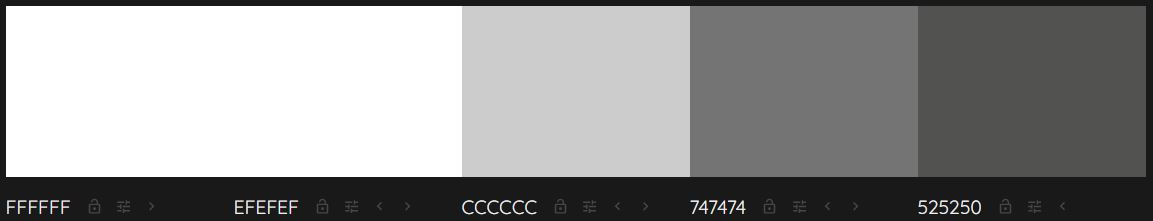
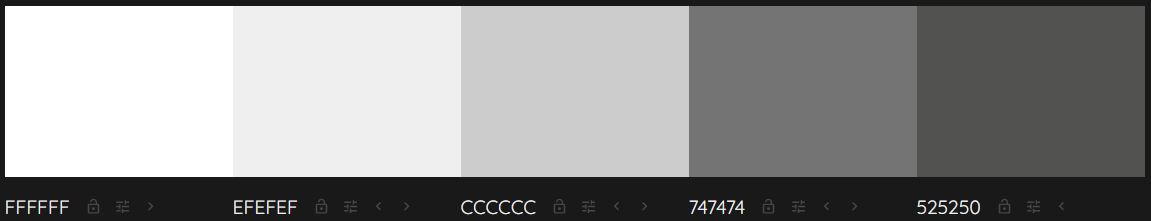
Update colour scheme section of readme file

diff --git a/README.md b/README.md
@@ -77,7 +77,7 @@ Here are links to each of them:
 
 #### Imagery
 
-Images were only used to represent the player's and computer's hands, those being: rock, paper, scissors, lizard or, spock. The chosen images used within the game came from [Tony Florida's](https://tonyflorida.com/rock-paper-scissors-lizard-spock-rules/) website, found with a google search. The images looked different from others I had seen; I liked this so decided to use them. I cropped them all, changed the angles, and made their backgrounds transparent.
+Images were only used to represent the player's and computer's hands, those being: rock, paper, scissors, lizard or spock. The chosen images used within the game came from [Tony Florida's](https://tonyflorida.com/rock-paper-scissors-lizard-spock-rules/) website, found with a google search. The images looked different from others I had seen; I liked this so decided to use them. I cropped them all, changed the angles, and made their backgrounds transparent.
 
 #### Colour Scheme
 
@@ -85,9 +85,9 @@ The colour scheme used was partly influenced by the colour of the [images](#imag
 
 The heading text is coloured with a dark shade of grey (#525250) and has a border that is a slightly ligher shade of grey (#747474). This combo works well as it seems to make the text stand out without being overpowering.
 
-The difficulty toggle background colour is a very light grey (#efefef) with a darker but still light grey border (#ccc). Although light, the grey still stands out against the white background, but doesn't take away the effect of the blue toggle selector in front of it. The text is white when covered by the toggle and black when not covered. The text colour changes when the toggle switches from one to the other.
+The difficulty toggle background colour is a very light grey (#efefef) with a darker, but still light, grey border (#ccc). Although light, the grey still stands out against the white background, but doesn't take away the effect of the blue toggle selector in front of it. The text is white when covered by the blue toggle switch and black when not covered. The text colour changes when the toggle switches from one to the other.
 
-The main background colour is white, and all other text - not yet refered to above - that sits on top of this is black. Where the background is blue, the text is white.
+The main background colour of the website is white. All text that sits on top of the white background - other than that already mentioned above - is black. The icons the user uses to select their hand are also black. Where the background is blue, the text is white.
 
 All of the colours mentioned above can be seen in the following images:
 
